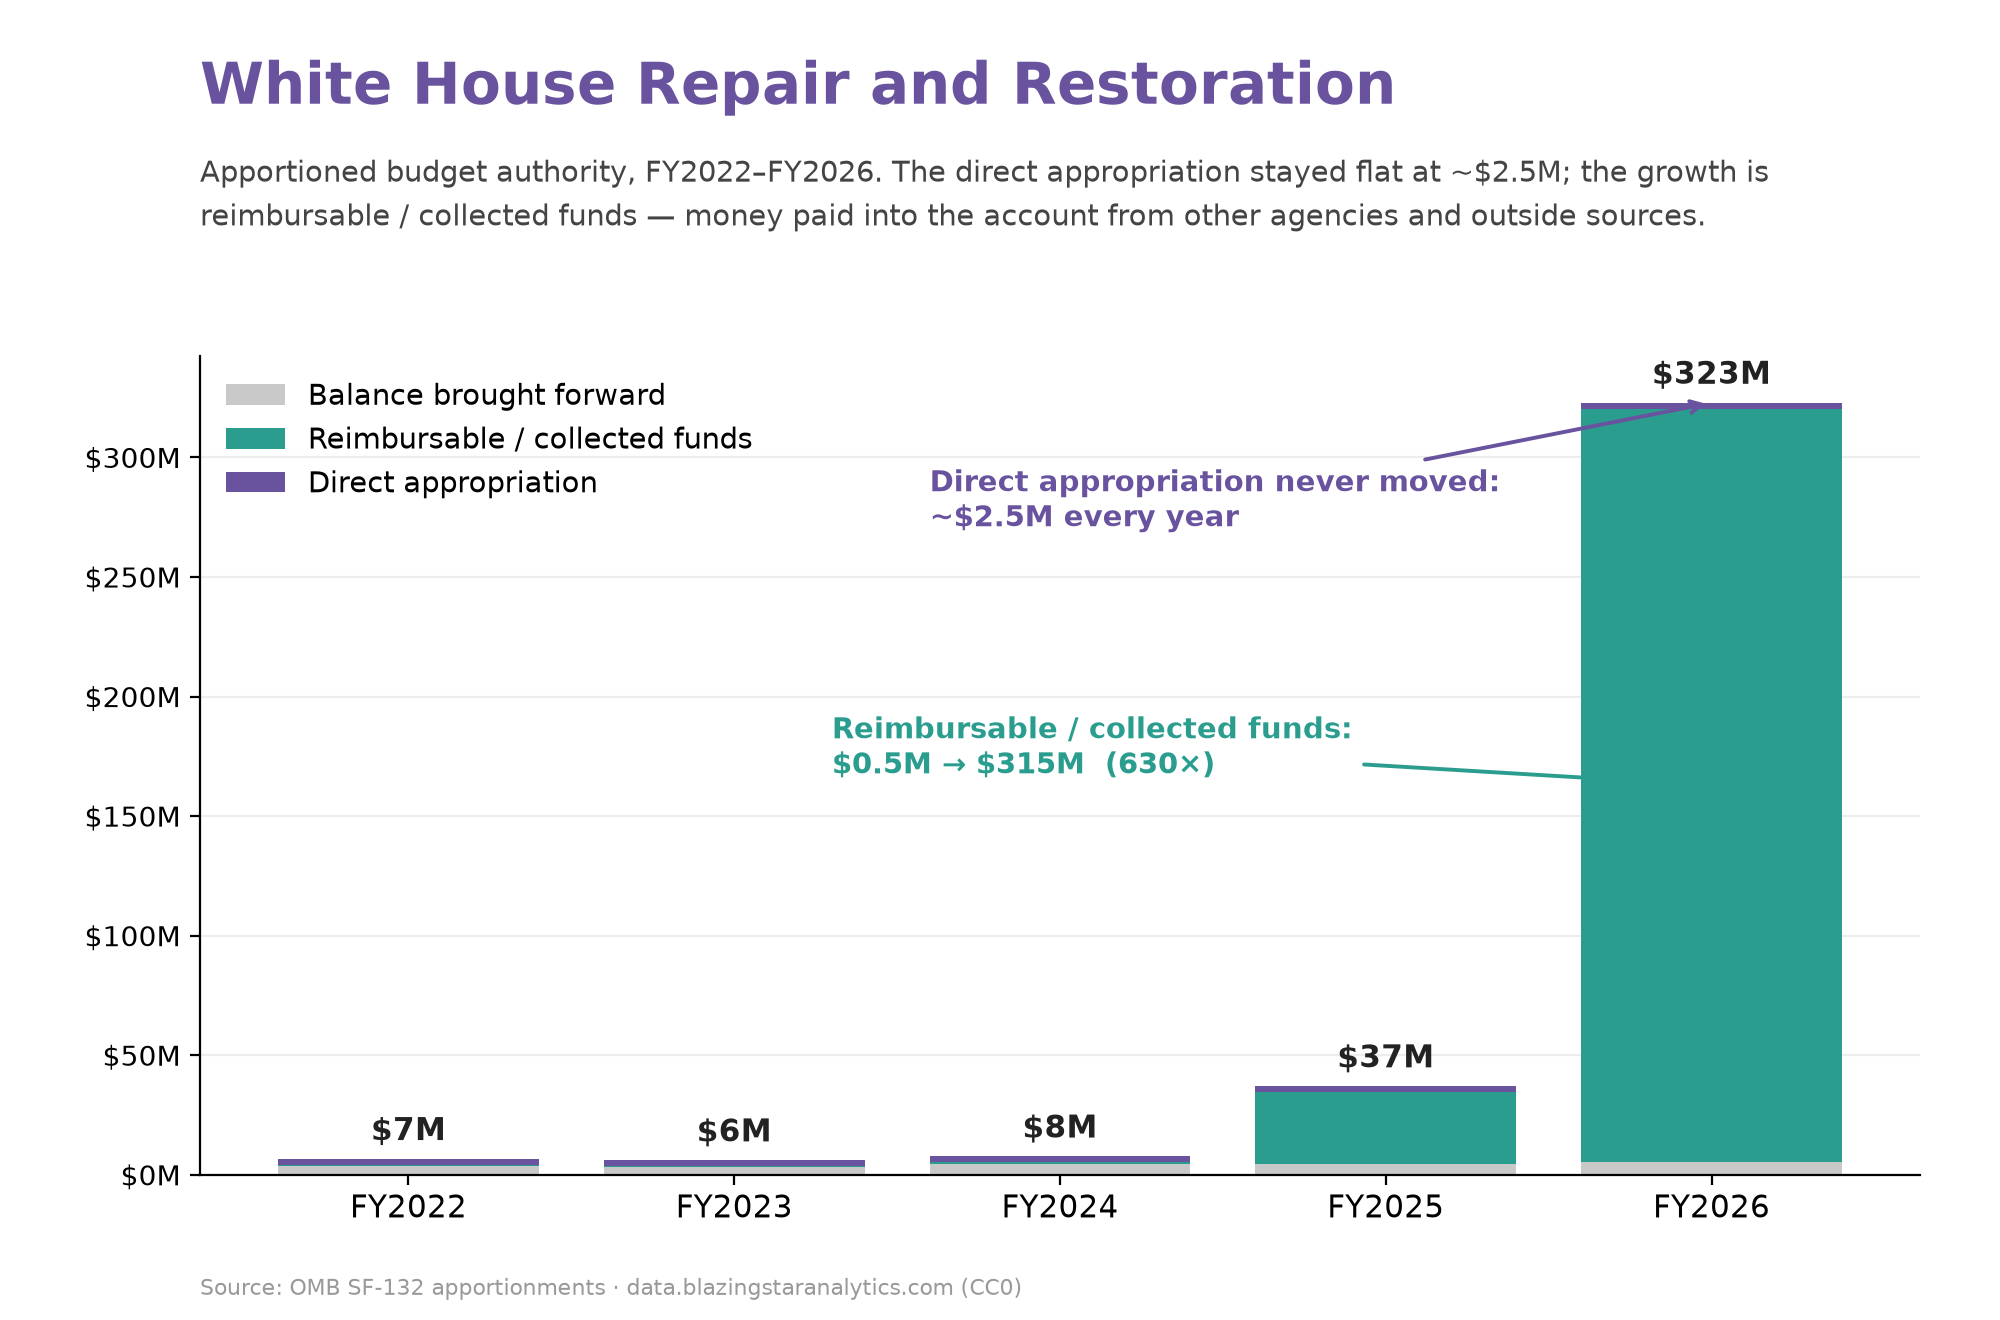
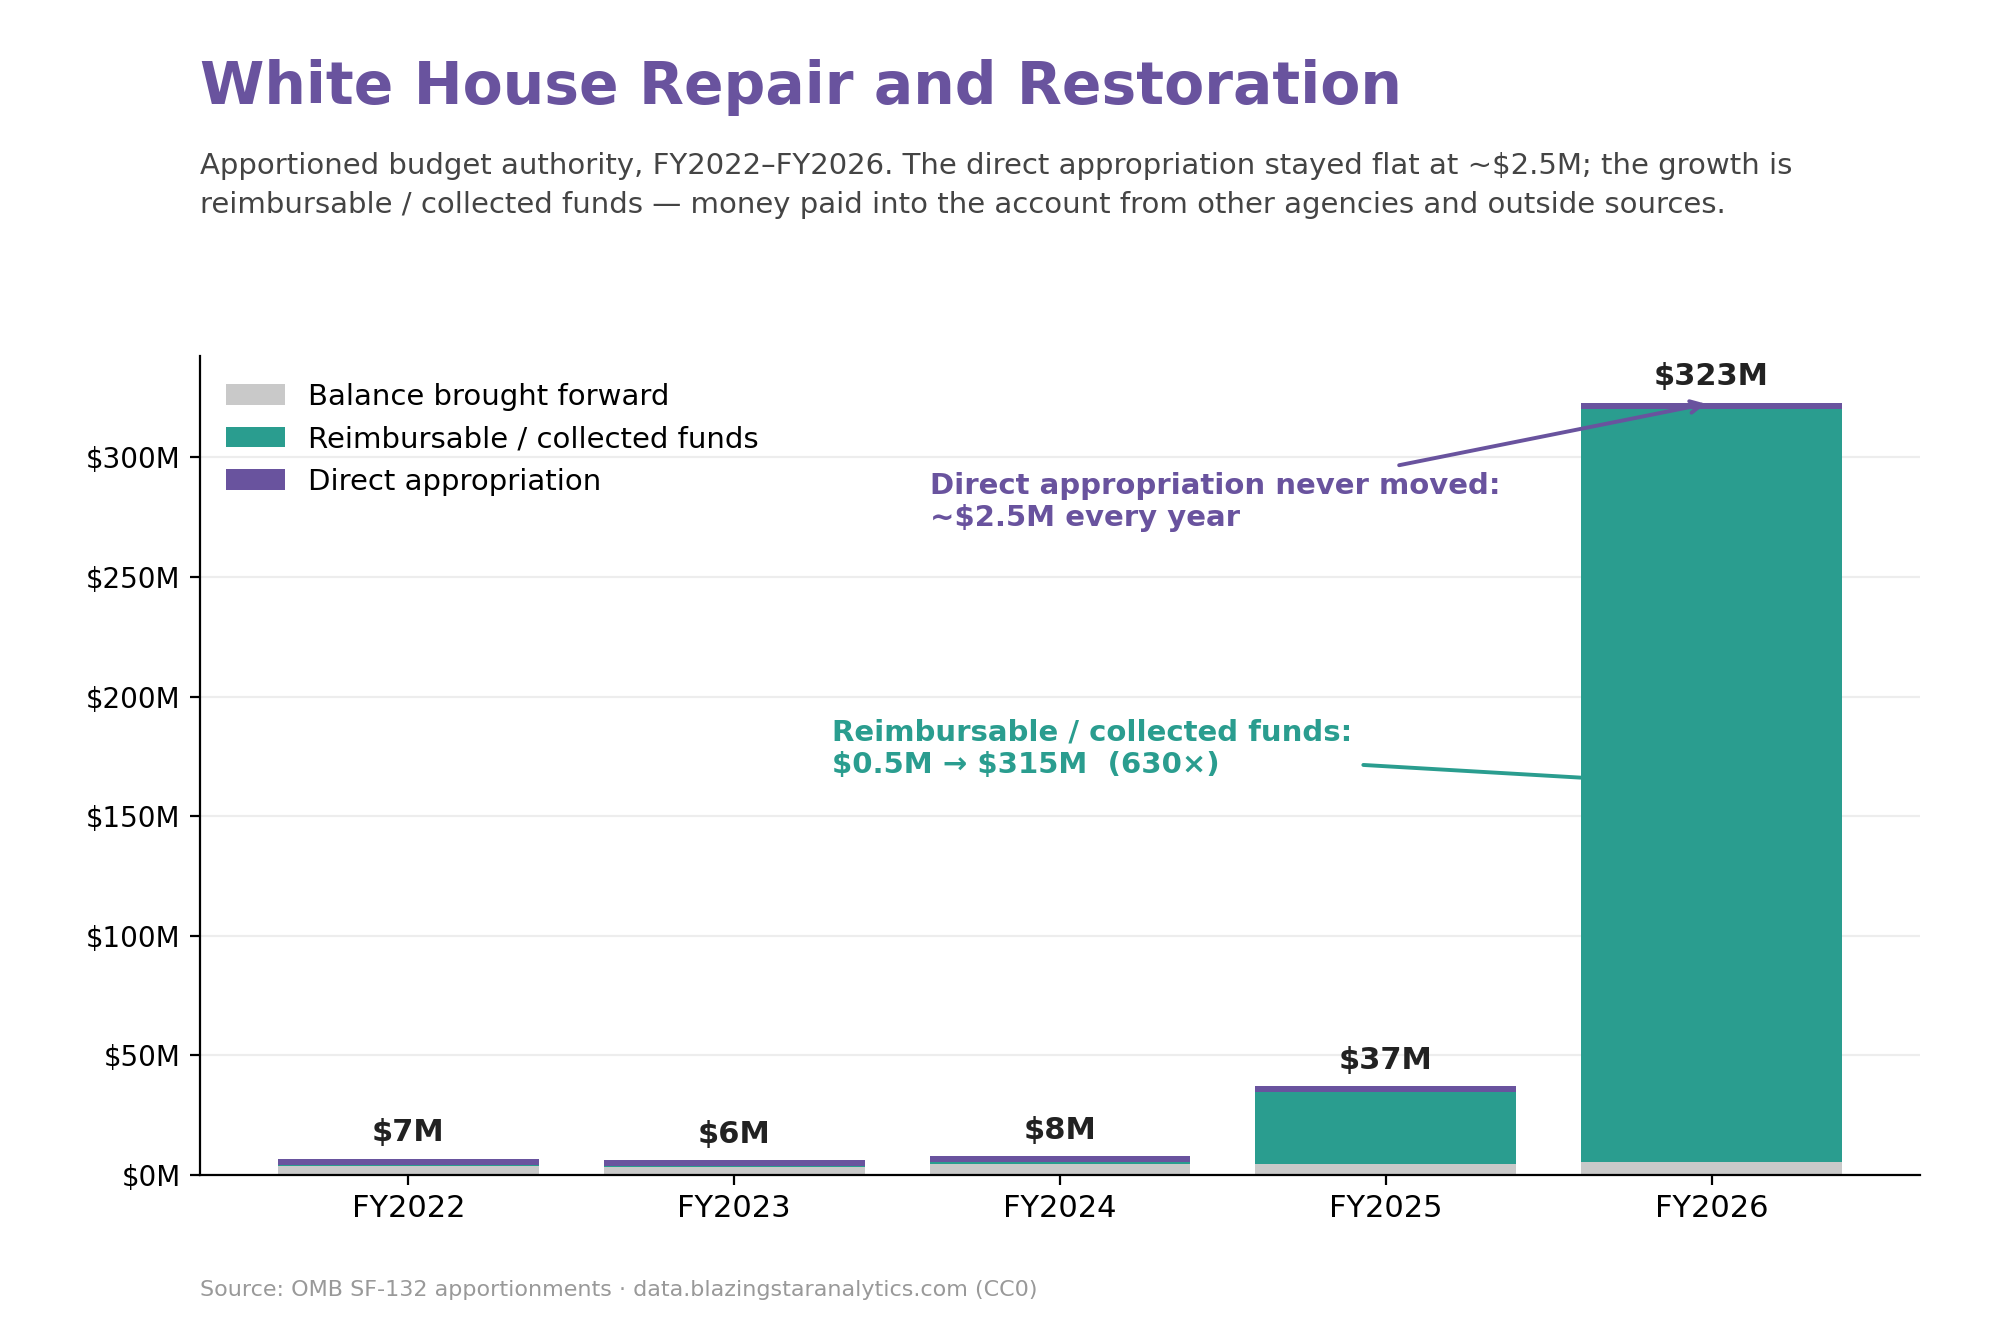
README: add plain 'About BlazingStar' section; fix stale Colab note
- Describe what BlazingStar is (Joe Carlile's free CC0 mirror + the separate
  commercial platform), and that this repo only uses the free mirror.
- Drop the outdated "repo is private" Colab caveat (it's public now).
- Commit two re-rendered chart PNGs; gitignore .DS_Store.

diff --git a/README.md b/README.md
@@ -17,6 +17,16 @@ against OMB.
 > This repo is not affiliated with or endorsed by BlazingStar Analytics. It just
 > documents the public endpoints and shows them being used.
 
+## About BlazingStar
+
+BlazingStar Analytics is Joe Carlile's project (he's a budget analyst and former
+OMB / House Appropriations staffer). It has two parts: a **free, CC0 public
+mirror** of federal budget documents at
+[data.blazingstaranalytics.com](https://data.blazingstaranalytics.com/), and a
+separate **commercial platform** (in early access) that connects the same data —
+appropriation → apportionment → execution → award — into one searchable record.
+**This repo only uses the free mirror.**
+
 ## Quick start
 
 ```bash
@@ -30,9 +40,7 @@ Or open it in Colab (no install needed):
 [![Open In Colab](https://colab.research.google.com/assets/colab-badge.svg)](https://colab.research.google.com/github/abigailhaddad/blazingstar-data/blob/main/demo.ipynb)
 
 > The Colab badge points at `abigailhaddad/blazingstar-data` on GitHub `main`.
-> **This repo is currently private, and Colab can't open private repos** — the
-> badge will 404 until the repo is made public. Until then, run `demo.ipynb`
-> locally or upload it to Colab manually. Adjust the URL if you fork or rename.
+> Adjust the URL if you fork or rename.
 
 ## The datasets
 